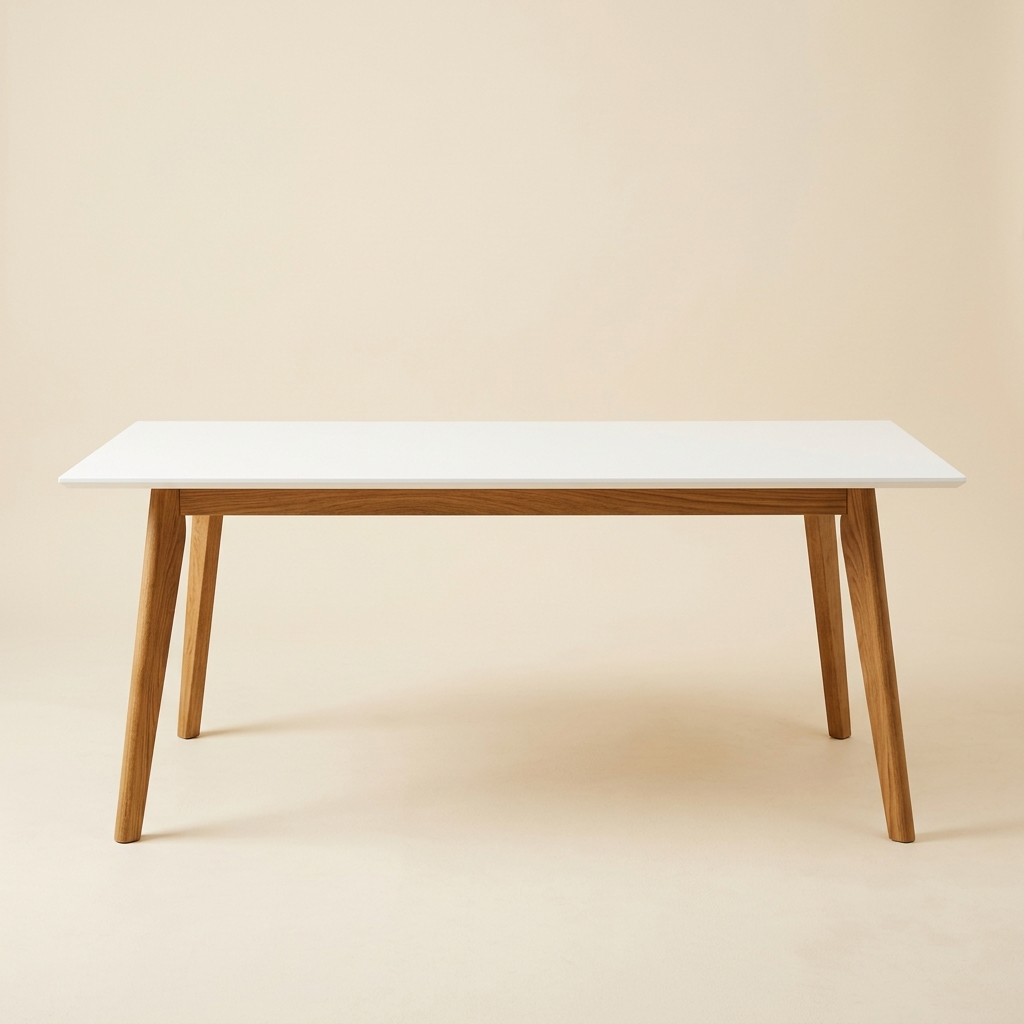
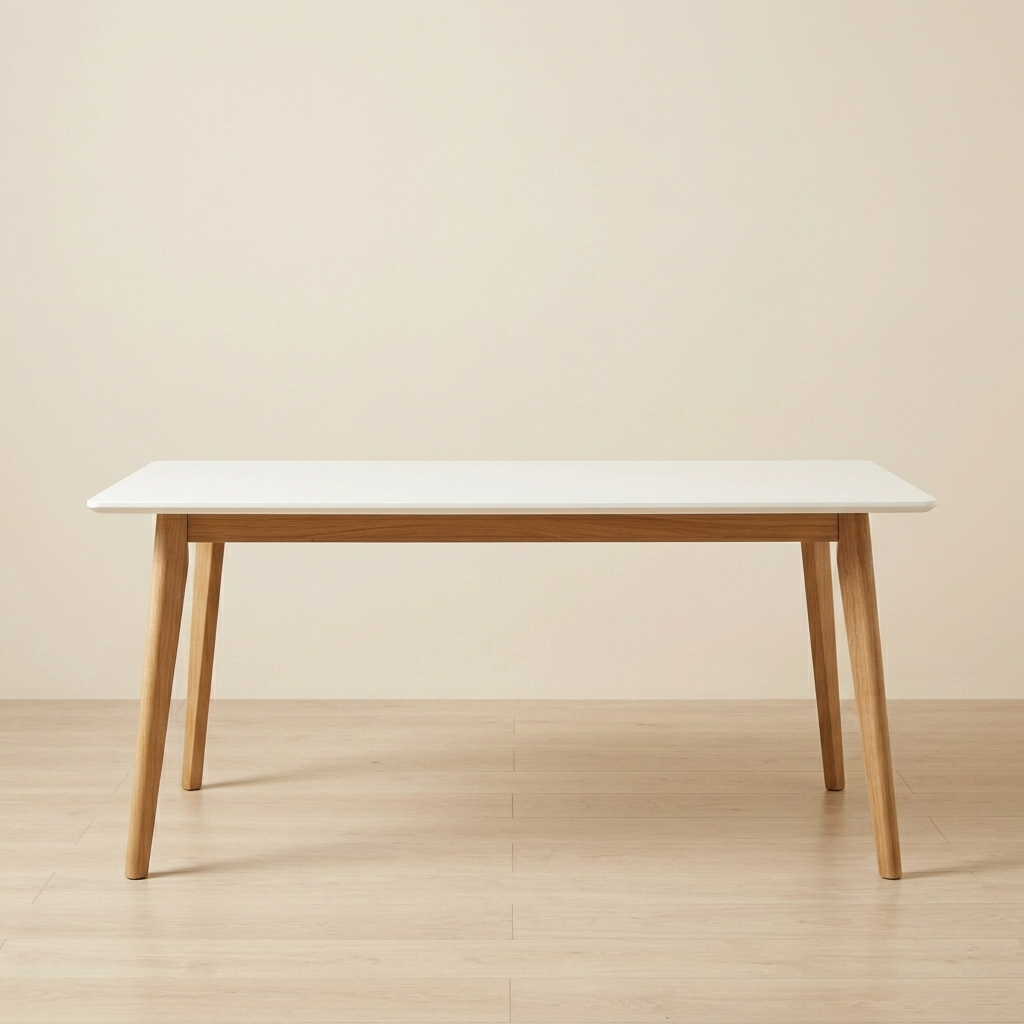
perf: switch all images to WebP, add Linden White table

diff --git a/src/data/products.js b/src/data/products.js
@@ -2,22 +2,22 @@ export const categories = [
   {
     name: "Canapele",
     count: "3 Modele",
-    img: "/img/sofa_green.png"
+    img: "/img/sofa_green.webp"
   },
   {
     name: "Scaune",
     count: "9 Modele",
-    img: "/img/chair_aura_white.png"
+    img: "/img/chair_aura_white.webp"
   },
   {
     name: "Fotolii",
     count: "3 Modele",
-    img: "/img/armchair_grey.png"
+    img: "/img/armchair_grey.webp"
   },
   {
     name: "Mese",
     count: "2 Modele",
-    img: "/img/table_rovo_oak.png"
+    img: "/img/table_rovo_oak.webp"
   }
 ];
 
@@ -27,9 +27,9 @@ export const products = [
     category: "Canapele",
     type: "Canapea modulară",
     name: "Deseda (Beige)",
-    img: "/img/sofa_beige.png",
+    img: "/img/sofa_beige.webp",
     images: [
-      "/img/sofa_beige.png"
+      "/img/sofa_beige.webp"
     ],
     availableMaterials: [
       "Catifea",
@@ -81,9 +81,9 @@ export const products = [
     category: "Fotolii",
     type: "Fotoliu de design",
     name: "Bliss (Beige)",
-    img: "/img/armchair_beige.png",
+    img: "/img/armchair_beige.webp",
     images: [
-      "/img/armchair_beige.png",
+      "/img/armchair_beige.webp",
       "/img/armchair_beige_side.png",
       "/img/armchair_beige_back.png"
     ],
@@ -137,9 +137,9 @@ export const products = [
     category: "Canapele",
     type: "Canapea modulară",
     name: "Deseda (Green)",
-    img: "/img/sofa_green.png",
+    img: "/img/sofa_green.webp",
     images: [
-      "/img/sofa_green.png"
+      "/img/sofa_green.webp"
     ],
     availableMaterials: [
       "Catifea",
@@ -191,9 +191,9 @@ export const products = [
     category: "Canapele",
     type: "Canapea modulară",
     name: "Deseda (Grey)",
-    img: "/img/sofa_grey.png",
+    img: "/img/sofa_grey.webp",
     images: [
-      "/img/sofa_grey.png"
+      "/img/sofa_grey.webp"
     ],
     availableMaterials: [
       "Catifea",
@@ -245,9 +245,9 @@ export const products = [
     category: "Fotolii",
     type: "Fotoliu de design",
     name: "Bliss (Green)",
-    img: "/img/armchair_green.png",
+    img: "/img/armchair_green.webp",
     images: [
-      "/img/armchair_green.png"
+      "/img/armchair_green.webp"
     ],
     availableMaterials: [
       "Catifea",
@@ -299,9 +299,9 @@ export const products = [
     category: "Fotolii",
     type: "Fotoliu de design",
     name: "Bliss (Grey)",
-    img: "/img/armchair_grey.png",
+    img: "/img/armchair_grey.webp",
     images: [
-      "/img/armchair_grey.png"
+      "/img/armchair_grey.webp"
     ],
     availableMaterials: [
       "Catifea",
@@ -394,9 +394,9 @@ export const products = [
       "Șezut ergonomic confortabil"
     ],
     id: 20,
-    img: "/img/chair_aura_white.png",
+    img: "/img/chair_aura_white.webp",
     images: [
-      "/img/chair_aura_white.png"
+      "/img/chair_aura_white.webp"
     ]
   },
   {
@@ -445,9 +445,9 @@ export const products = [
       "Șezut ergonomic confortabil"
     ],
     id: 23,
-    img: "/img/chair_aura_rose.png",
+    img: "/img/chair_aura_rose.webp",
     images: [
-      "/img/chair_aura_rose.png"
+      "/img/chair_aura_rose.webp"
     ]
   },
   {
@@ -496,9 +496,9 @@ export const products = [
       "Șezut ergonomic confortabil"
     ],
     id: 24,
-    img: "/img/chair_aura_terracotta.png",
+    img: "/img/chair_aura_terracotta.webp",
     images: [
-      "/img/chair_aura_terracotta.png"
+      "/img/chair_aura_terracotta.webp"
     ]
   },
   {
@@ -547,9 +547,9 @@ export const products = [
       "Design contemporan"
     ],
     id: 21,
-    img: "/img/chair_aura_blue.png",
+    img: "/img/chair_aura_blue.webp",
     images: [
-      "/img/chair_aura_blue.png"
+      "/img/chair_aura_blue.webp"
     ]
   },
   {
@@ -598,9 +598,9 @@ export const products = [
       "Design contemporan"
     ],
     id: 25,
-    img: "/img/chair_nova_sage.png",
+    img: "/img/chair_nova_sage.webp",
     images: [
-      "/img/chair_nova_sage.png"
+      "/img/chair_nova_sage.webp"
     ]
   },
   {
@@ -649,9 +649,9 @@ export const products = [
       "Design contemporan"
     ],
     id: 26,
-    img: "/img/chair_nova_burgundy.png",
+    img: "/img/chair_nova_burgundy.webp",
     images: [
-      "/img/chair_nova_burgundy.png"
+      "/img/chair_nova_burgundy.webp"
     ]
   },
   {
@@ -700,9 +700,9 @@ export const products = [
       "Confort premium de lungă durată"
     ],
     id: 22,
-    img: "/img/chair_aura_green.png",
+    img: "/img/chair_aura_green.webp",
     images: [
-      "/img/chair_aura_green.png"
+      "/img/chair_aura_green.webp"
     ]
   },
   {
@@ -751,9 +751,9 @@ export const products = [
       "Confort premium de lungă durată"
     ],
     id: 27,
-    img: "/img/chair_luxe_caramel.png",
+    img: "/img/chair_luxe_caramel.webp",
     images: [
-      "/img/chair_luxe_caramel.png"
+      "/img/chair_luxe_caramel.webp"
     ]
   },
   {
@@ -802,9 +802,9 @@ export const products = [
       "Confort premium de lungă durată"
     ],
     id: 28,
-    img: "/img/chair_luxe_mauve.png",
+    img: "/img/chair_luxe_mauve.webp",
     images: [
-      "/img/chair_luxe_mauve.png"
+      "/img/chair_luxe_mauve.webp"
     ]
   },
   {
@@ -849,9 +849,9 @@ export const products = [
       "Design minimalist rotund",
       "Suprafață rezistentă la uzură"
     ],
-    img: "/img/table_rovo_oak.png",
+    img: "/img/table_rovo_oak.webp",
     images: [
-      "/img/table_rovo_oak.png"
+      "/img/table_rovo_oak.webp"
     ]
   },
   {
@@ -896,9 +896,9 @@ export const products = [
       "Design minimalist rotund",
       "Suprafață rezistentă la uzură"
     ],
-    img: "/img/table_rovo_black.png",
+    img: "/img/table_rovo_black.webp",
     images: [
-      "/img/table_rovo_black.png"
+      "/img/table_rovo_black.webp"
     ]
   },
   {